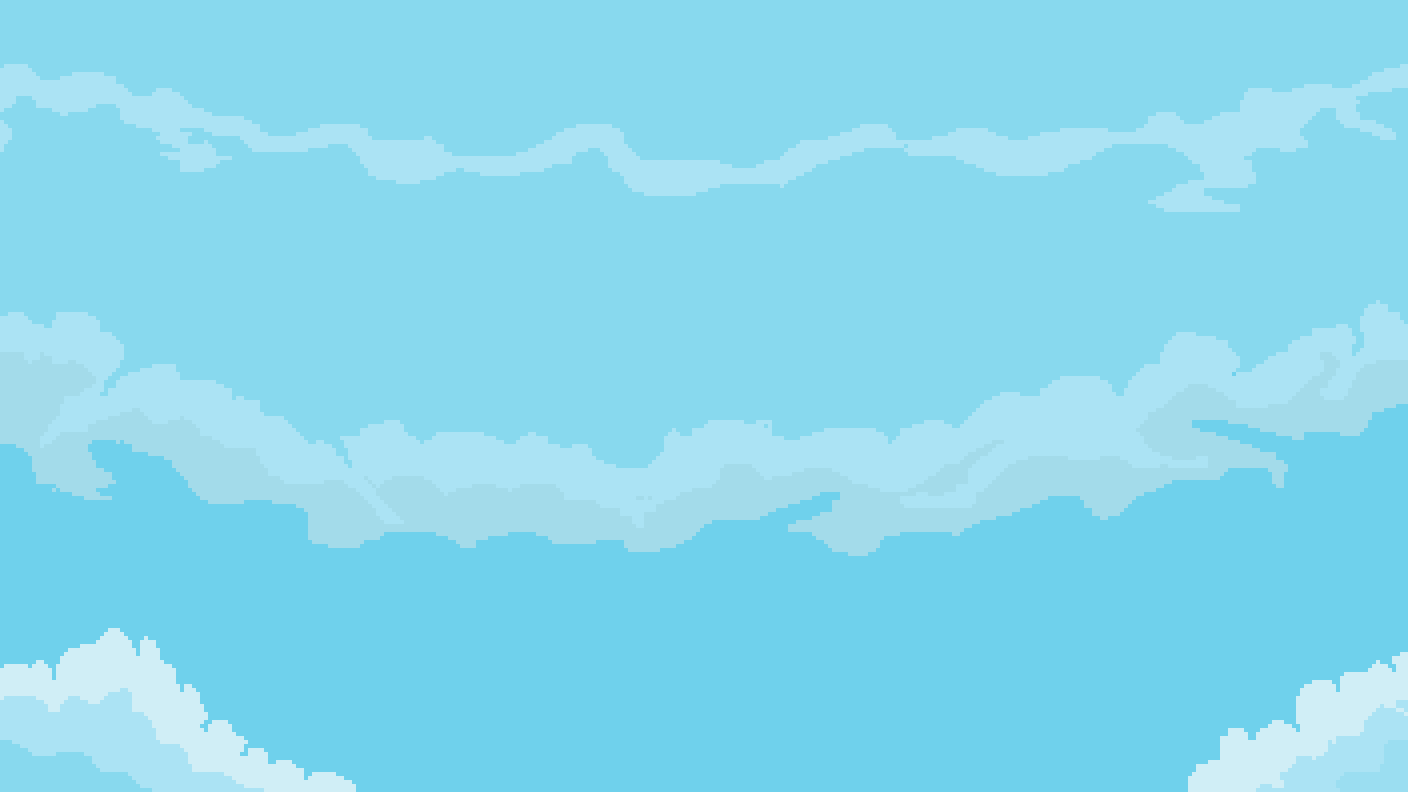
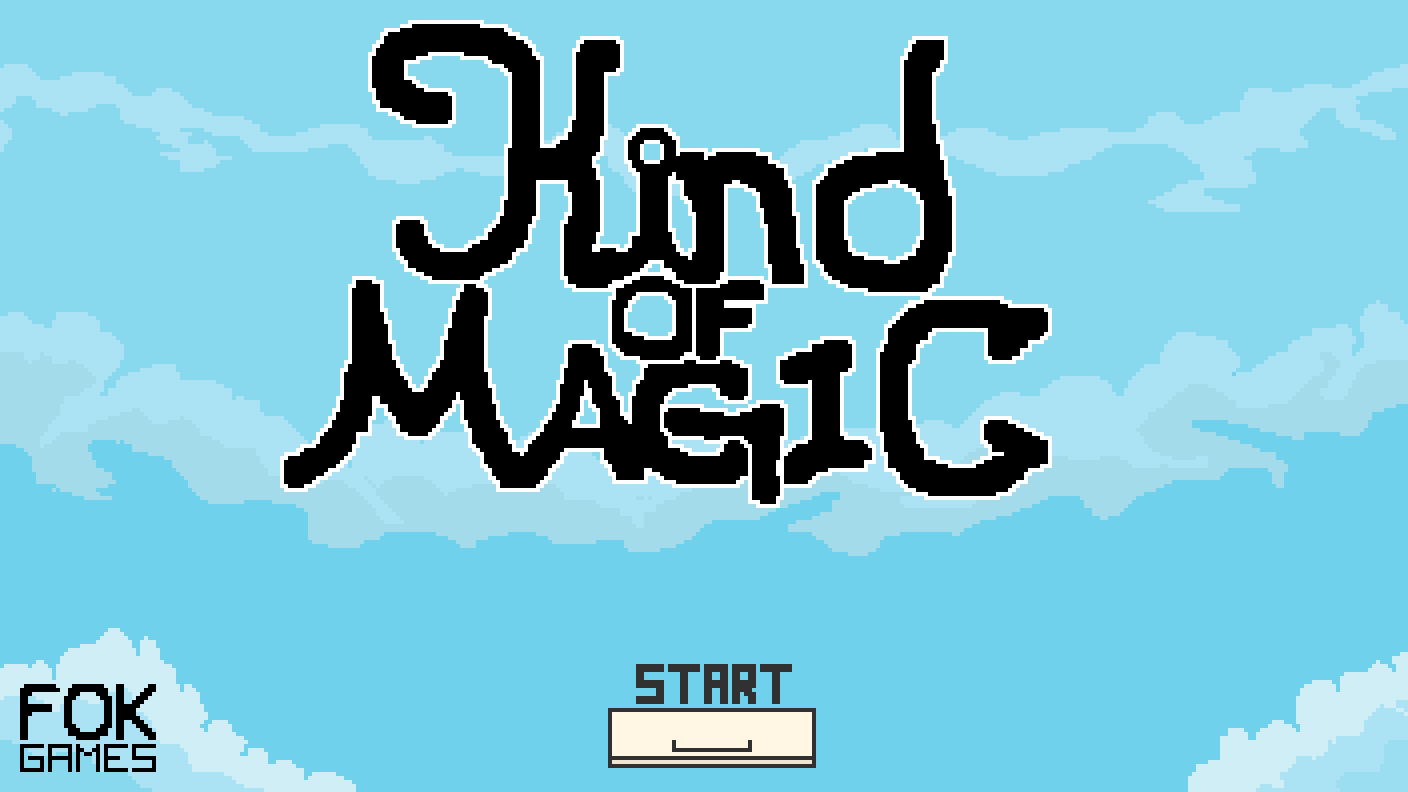
welcome screen

Changed region(s): [[0.1875, 0.0, 0.75, 0.6364], [0.4062, 0.8182, 0.5938, 0.9697], [0.0, 0.8485, 0.125, 1.0]]

diff --git a/window.h b/window.h
@@ -15,6 +15,7 @@
 #define FIRE 4
 #define WATER 5
 #define ARENASELECT 6
+#define WELCOME 7
 using namespace std;
 
 class Window{
@@ -34,7 +35,9 @@ class Window{
         void handleEvents();
         void handleEventsWardrobe();
         void handleEventsLobby();
+        void handleEventsWelcome();
         void startGame();
+        void startWelcome();
         void checkNewplace();
         void startWardrobe();
         void startArenaSelect();

diff --git a/window.cpp b/window.cpp
@@ -247,6 +247,14 @@ void Window::startGame(){
 void Window::startWardrobe(){
     while (window->isOpen()){
         window->clear(sf::Color::Black);
+        handleEventsWelcome();
+        map->draw(window);
+        window->display();
+    }
+}
+void Window::startWelcome(){
+    while (window->isOpen()){
+        window->clear(sf::Color::Black);
         handleEventsWardrobe();
         map->draw(window);
         window->display();
